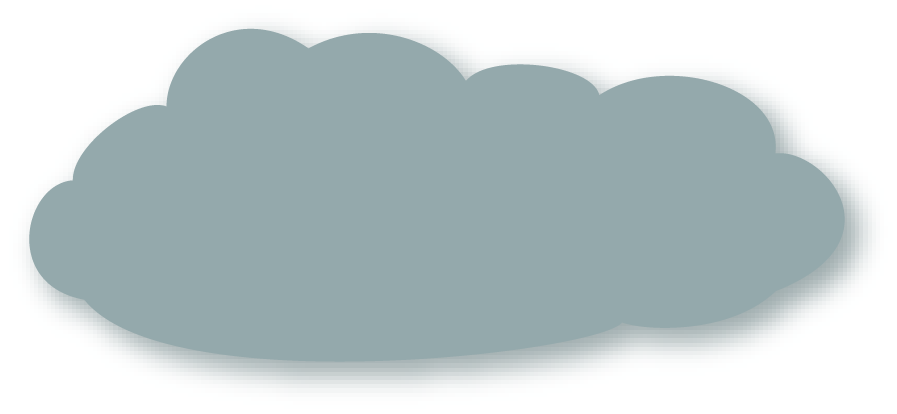
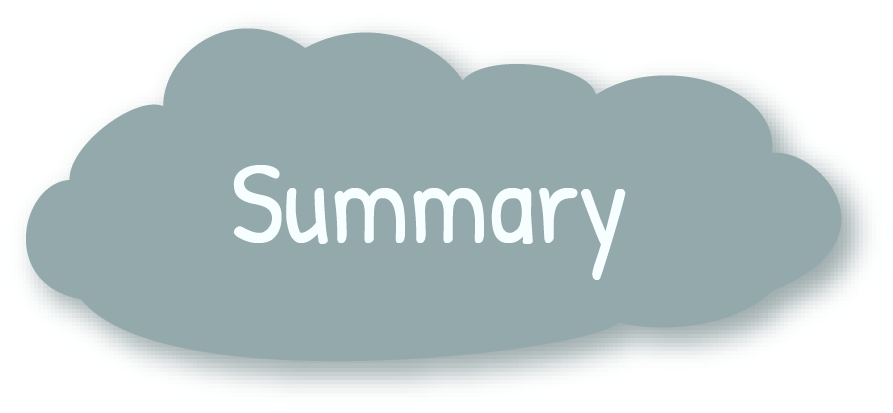
Quiz result page

diff --git a/pages/quiz/results.js b/pages/quiz/results.js
@@ -1,9 +1,9 @@
 import Head from 'next/head'
 import styled from 'styled-components';
- 
+
 import { HeadText } from "../../comps/header";
 import { ParaText } from "../../comps/body"
- 
+
 import { ResourceMenu, ResourceBox } from "../../comps/resourcemenu";
 import { numberArr, linkArr } from "../../data/resourcedata";
 import { useState } from 'react';
@@ -12,17 +12,18 @@ import { LargeButton } from "../../comps/largebutton";
 import { SmallButton } from "../../comps/smallbutton";
 import { MindScale } from "../../comps/mindscale";
 import { ImgDiv } from '../../comps/images';
- 
+
 const ScaleCont = styled.div`
 margin: auto;
 align-items: center;
 justify-content: center;
 display: grid;
 grid-template-columns: 50pt 50pt 50pt 50pt 50pt;
+margin-top: 5rem;
 `
- 
- 
- 
+
+
+
 export default function Quiz() {
   return (
     <div>
@@ -31,32 +32,43 @@ export default function Quiz() {
         <meta name="description" content="Generated by create next app" />
         <link rel="icon" href="/brownyfavicon.svg" />
       </Head>
- 
+
       <main>
- 
+
         <NavBar></NavBar>
         <ImgDiv path='/leaves.gif' size='100%' placement='absolute' opacity='40%'></ImgDiv>
-       
-        <HeadText text="Summary" color="#F6FEFF"></HeadText>
-        <ImgDiv path='/singleCloud.png' size='90%' placement='relative' opacity='100%'></ImgDiv>
- 
- 
-        <ParaText text='You are older than 18'></ParaText>
+
+        <ImgDiv path='/singleCloud.png' size='90%' placement='static' opacity='100%' top='5rem' marginLeft='1rem' marginRight='1rem'></ImgDiv>
+
+        {/* <HeadText text="Summary" color="#F6FEFF" placement="relative" marginTop="4rem"></HeadText> */}
+
+
+        <ParaText text='You are older than 18 <br />
+        You are happy'
+
+          placement='static'
+          marginRight='25pt'
+          marginLeft='25pt'
+        ></ParaText>
+
+
         <ScaleCont>
-          <MindScale scale_num='1'></MindScale>
-          <MindScale scale_num='2'></MindScale>
-          <MindScale scale_num='3'></MindScale>
-          <MindScale scale_num='4'></MindScale>
-          <MindScale scale_num='5'></MindScale>
-          <ImgDiv path='/scaleArrow.svg' size='100%' placement='absolute' opacity='100%'></ImgDiv>
+          <MindScale scaleNum='1' backgroundColor='#D28A7C'></MindScale>
+          <MindScale scaleNum='2'></MindScale>
+          <MindScale scaleNum='3'></MindScale>
+          <MindScale scaleNum='4'></MindScale>
+          <MindScale scaleNum='5'></MindScale>
+          <ImgDiv path='/scaleArrow.png' size='100%' placement='absolute' opacity='100%' top="32rem"></ImgDiv>
         </ScaleCont>
+
+        <HeadText text="Your mindfulness score: 5/5" color="#6F5F5E" placement="relative" marginTop="0pt" fontSize="28pt"></HeadText>
       </main>
- 
- 
+
+
     </div>
   )
 }
- 
- 
- 
+
+
+
 

diff --git a/comps/body.js b/comps/body.js
@@ -7,12 +7,21 @@ font-size: 16pt;
 text-align: center;
 color: #6F5F5E;
 font-family: 'Dm Sans';
-padding: 20pt;
 `
 
-export function ParaText(
-    {text="text sample"})
-{
-return <TextItem>{text}</TextItem>
+export function ParaText
+    ({ text = "text sample",
+        color = "#6F5F5E",
+        placement = "static",
+        marginRight = "auto",
+        marginLeft = "auto",
+        marginTop = "auto",
+        marginBottom = "auto",
+
+    }) {
+    return <TextItem
+        src={text}
+        style={{ color: color, position: placement, marginRight: marginRight, marginLeft: marginLeft, marginTop: marginTop, marginBottom: marginBottom }}
+    >{text}</TextItem>
 }
 

diff --git a/comps/header.js b/comps/header.js
@@ -9,13 +9,14 @@ color: #6F5F5E;
 font-family: 'Patrick Hand';
 `
 
-export function HeadText({text="text sample", color="#6F5F5E"
+export function HeadText({ text = "text sample", color = "#6F5F5E",
+	placement = "static",
+	marginTop = 'auto',
+	fontSize= '38pt',
 
-})
-
-{
-return <TextItem src={text} 
-style={{color}}
->{text}</TextItem>
+}) {
+	return <TextItem src={text}
+		style={{ color: color, position: placement, marginTop: marginTop, fontSize: fontSize }}
+	>{text}</TextItem>
 }
 

diff --git a/comps/mindscale.js b/comps/mindscale.js
@@ -24,18 +24,22 @@ color:#F6FEFF;
 text-align: center;
 vertical-align: middle;
 Font-family: 'DM Sans';
-margin-bottom: 7rem;
+margin-bottom: 4rem;
 animation: 1.5s ${pulseAnimation} infinite ;
 `
 
 
-
-
 export function MindScale ({
-    scale_num="1",
+    scaleNum="1",
+    backgroundColor = "#8EAAAC",
+
 
 }){
-    return <Scale> {scale_num}</Scale>
+    return <Scale 
+    src={scaleNum}
+    style={{ backgroundColor: backgroundColor 
+    }}
+    >{scaleNum}</Scale>
 }
 
 
